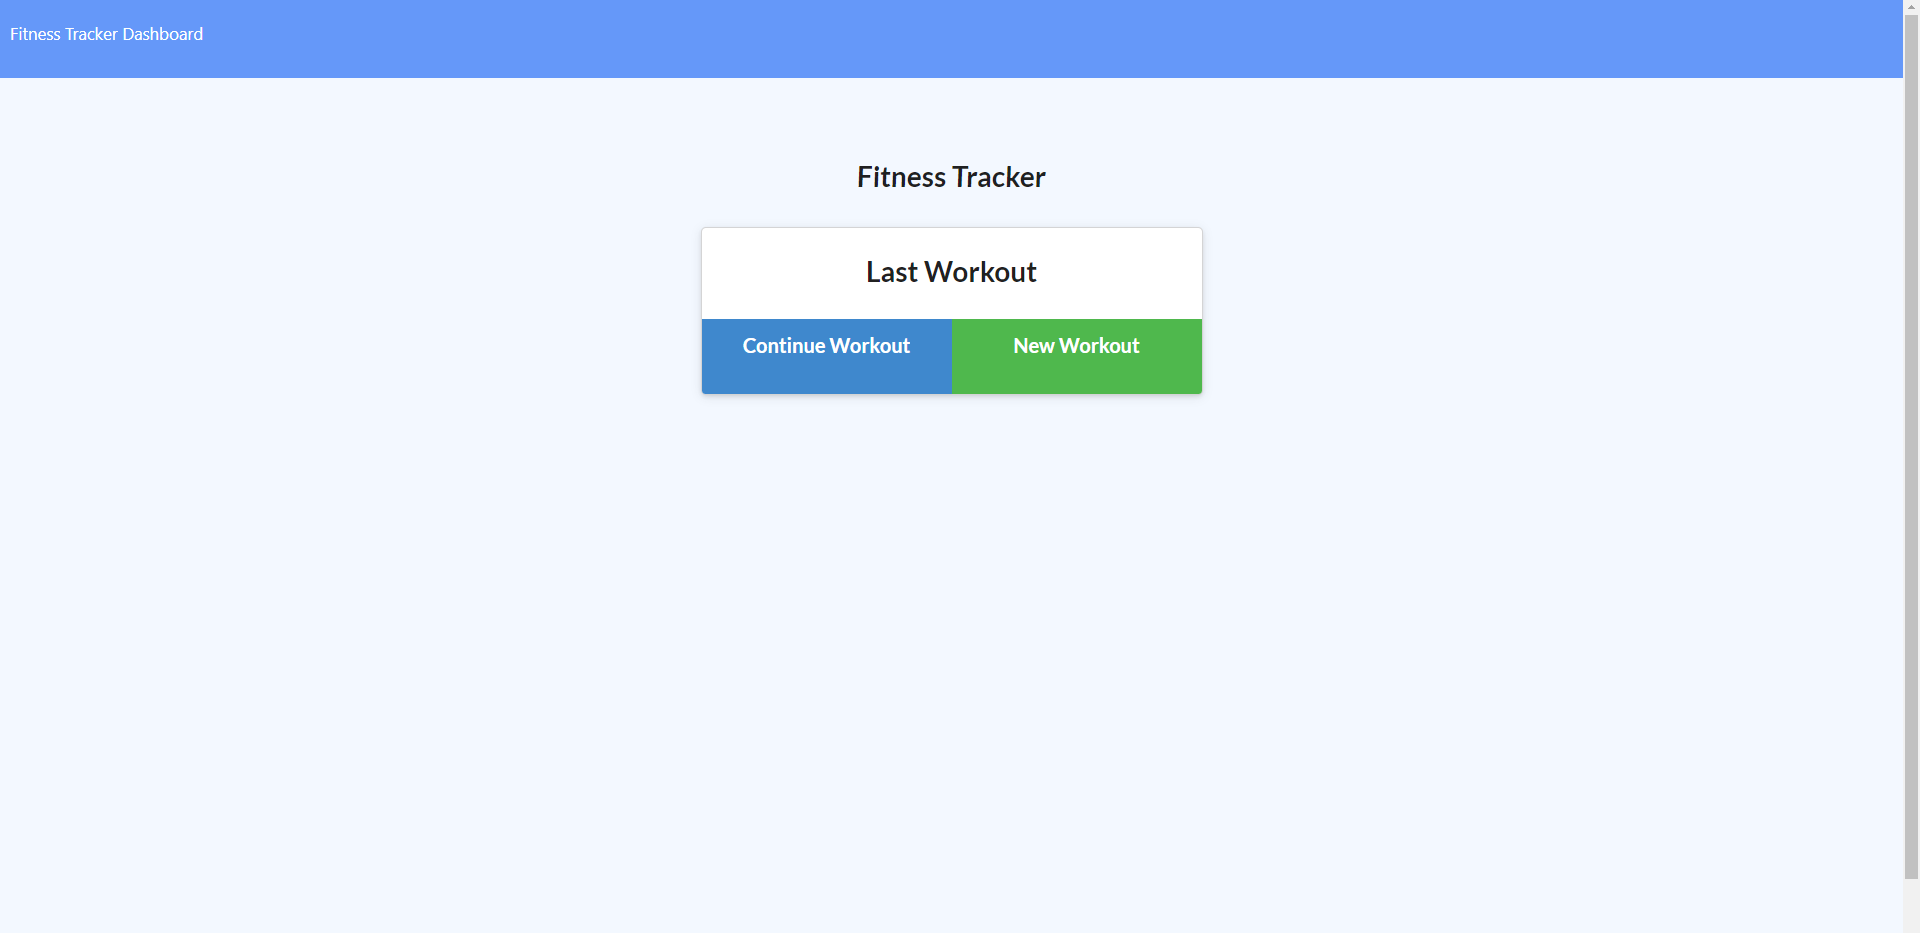
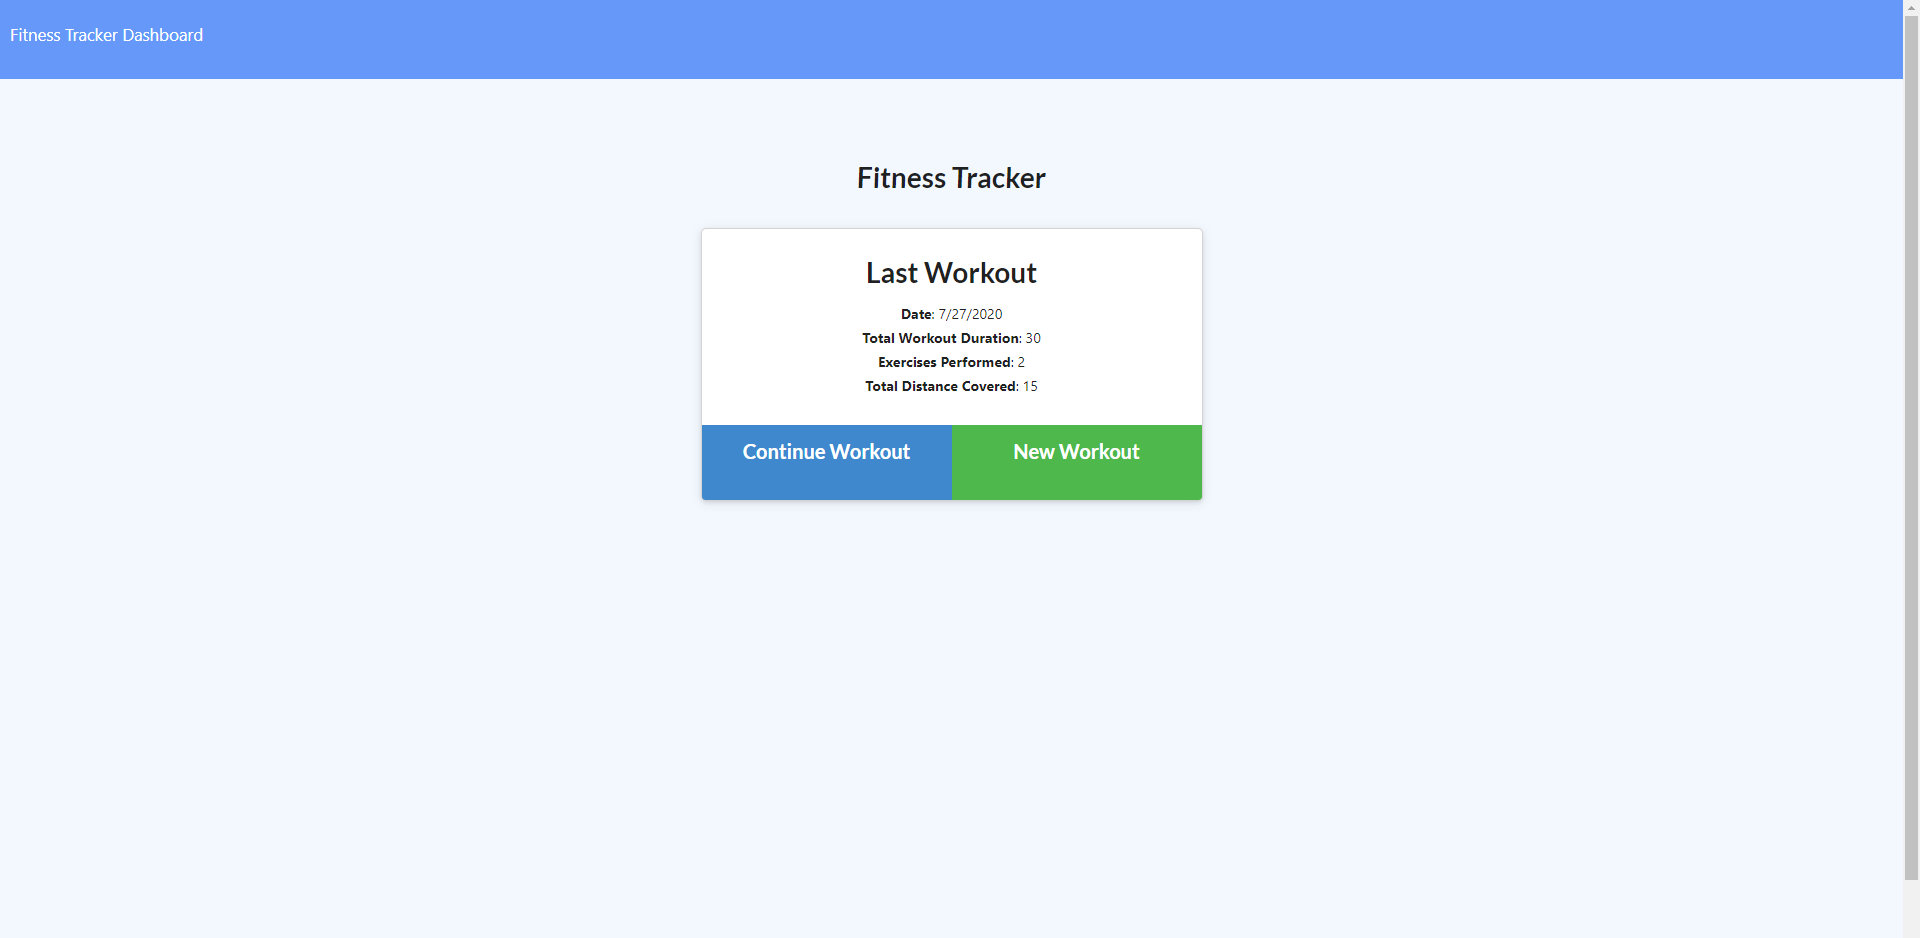
added virtuals and updated readMe

Changed region(s): [[0.3438, 0.2797, 0.625, 0.5595], [0.0, 0.0311, 0.0938, 0.0622]]

diff --git a/models/workout.js b/models/workout.js
@@ -2,14 +2,26 @@ const mongoose = require("mongoose");
 
 const Schema = mongoose.Schema;
 
-const workoutSchema = new Schema ({
-
+const workoutSchema = new Schema(
+  {
     day: {
-        type: Date,
-        default: Date.now,
+      type: Date,
+      default: Date.now
     },
     exercises: Array
+  },
+  {
+    toJSON: {
+      virtuals: true,
+    },
+  }
+);
+
+workoutSchema.virtual("totalDuration").get(function () {
+  return this.exercises.reduce((total, exercise) => {
+    return total + exercise.duration;
+  }, 0);
 });
 
-const Workout = mongoose.model("Workout", workoutSchema)
+const Workout = mongoose.model("Workout", workoutSchema);
 module.exports = Workout;
